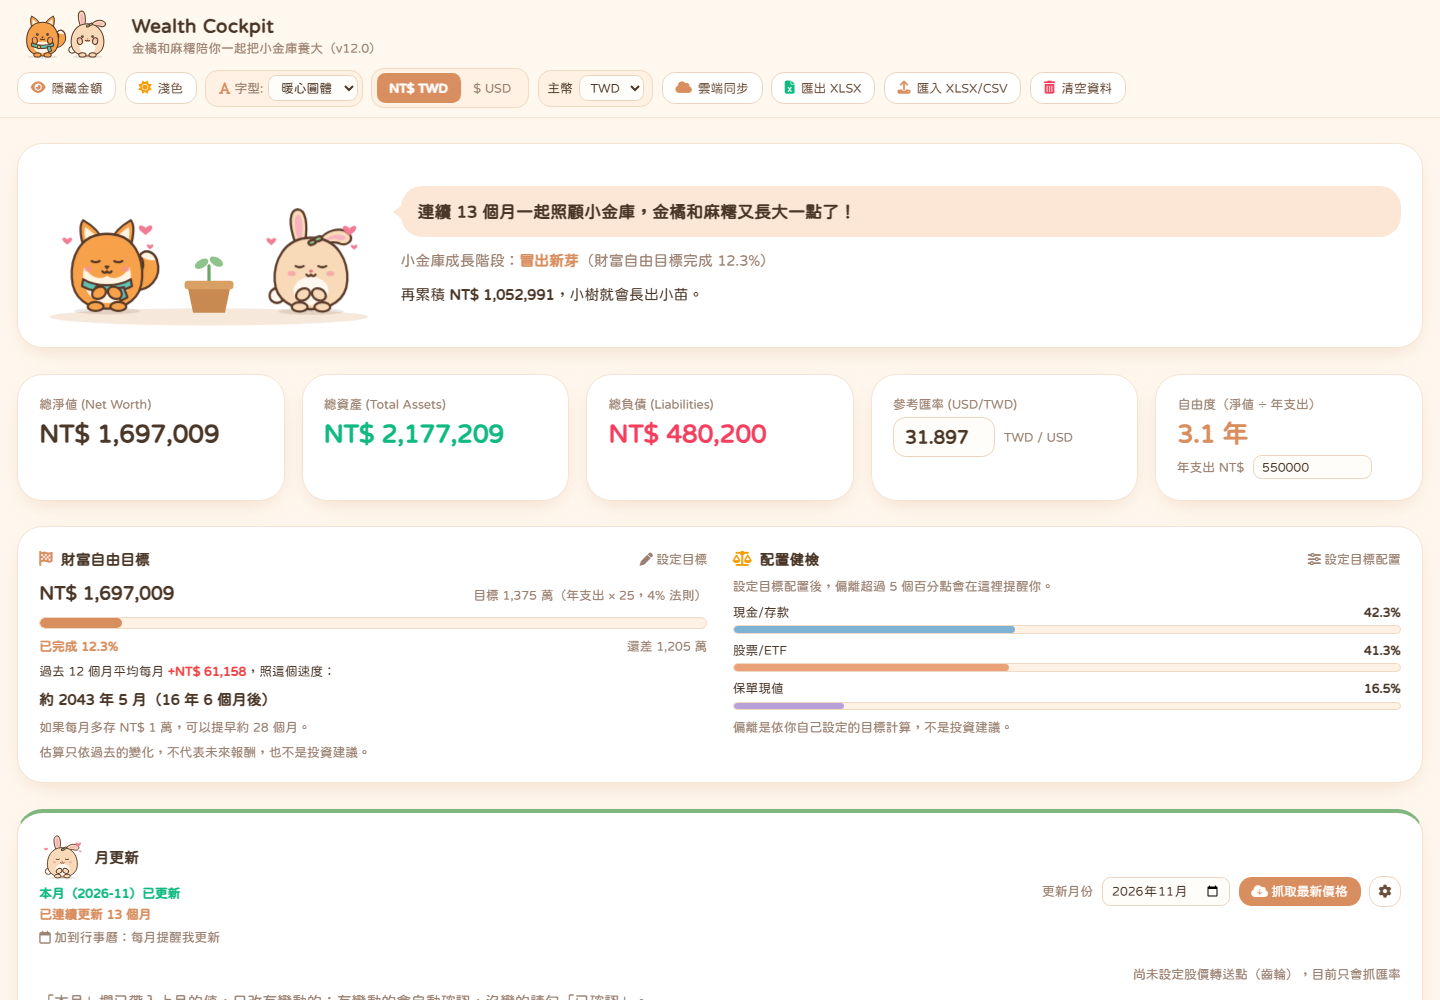
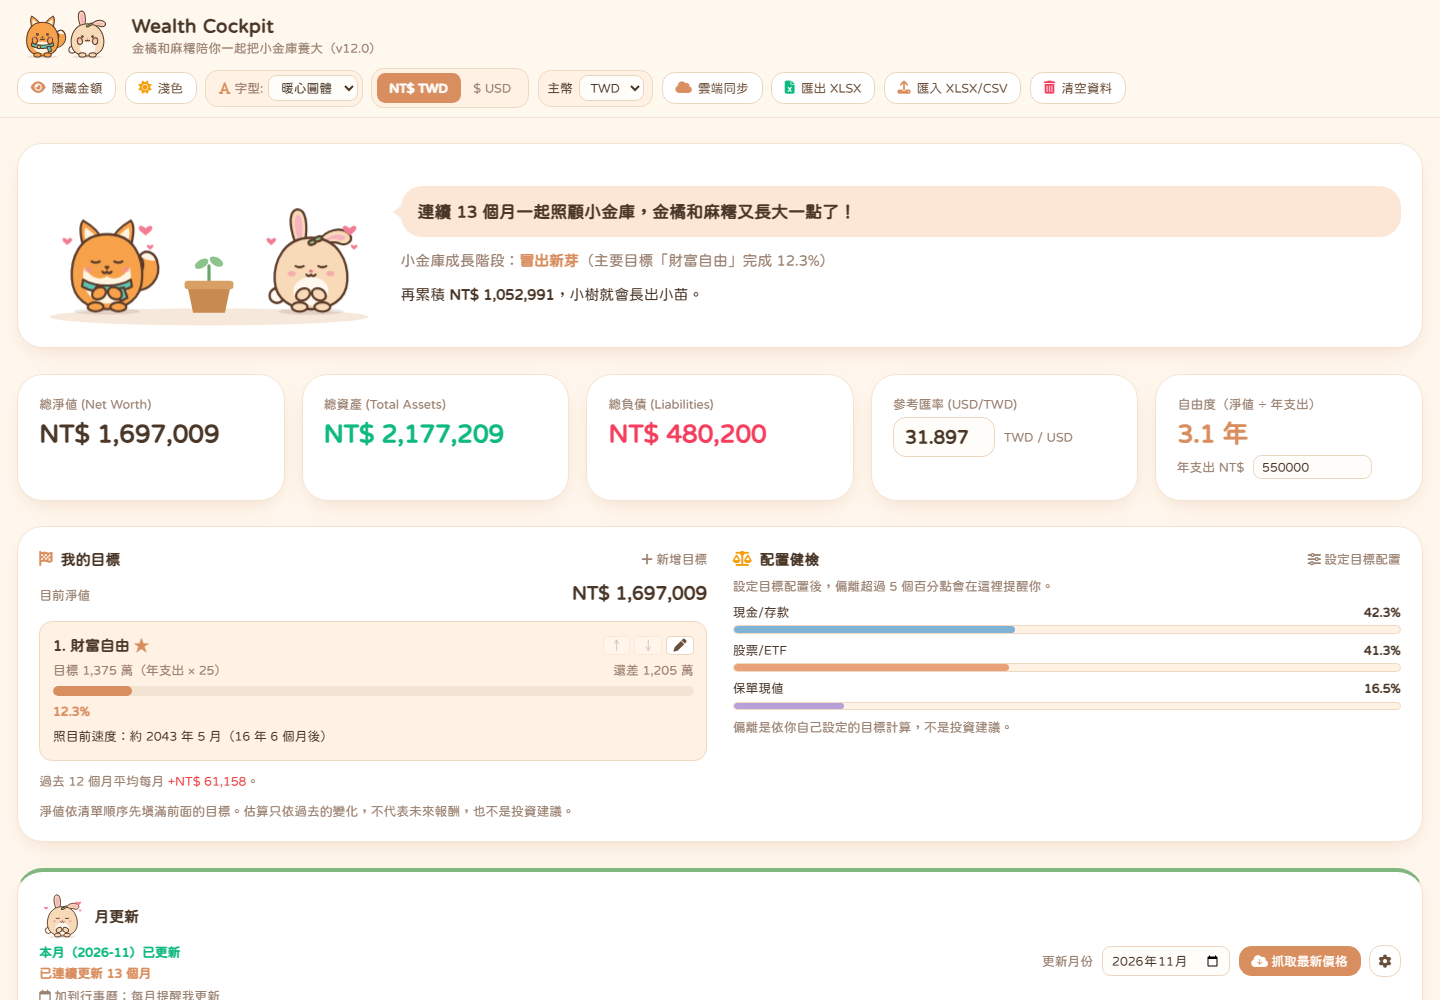
README：新增「我的目標」說明與截圖、匿名統計的隱私說明，更新受影響的截圖

diff --git a/README.md b/README.md
@@ -1,6 +1,6 @@
 # Wealth Cockpit · 金橘與麻糬的小金庫
 
-> 每月花 5 分鐘記下你的資產，看著小金庫的樹一點一點長大，往財富自由前進。
+> 每月花 5 分鐘記下你的資產，看著小金庫的樹一點一點長大，往你的目標前進。
 
 **立即使用 → https://timmy-practice.github.io/wealth-cockpit/**
 
@@ -14,9 +14,10 @@
 
 一個**手動記錄**的個人資產追蹤工具。你每個月把各帳戶、股票、保單、負債的金額填進去，它會幫你：
 
-- 算出**總淨值**、**財富自由度**（淨值 ÷ 年支出），以及照目前的速度，大約**哪一年能達到財富自由目標**
+- 算出**總淨值**與**財富自由度**（淨值 ÷ 年支出）
+- 追蹤你的**多個目標**（緊急預備金、買房頭期款、教育金、財富自由……），告訴你每個目標的進度、**每月要存多少**，以及照目前速度**哪一年能達成**
 - 用四張圖告訴你：**錢跑哪去了**、**錢放在哪裡**、**身價怎麼變化**、**資產結構怎麼演變**
-- 用一棵會長大的**小金庫樹**陪你：目標完成度越高，樹就從種子、新芽，長成結滿金幣、開花的大樹
+- 用一棵會長大的**小金庫樹**陪你：主要目標完成度越高，樹就從種子、新芽，長成結滿金幣、開花的大樹
 
 ### 為什麼要「手動」？
 
@@ -75,6 +76,21 @@
 - **加碼或賣出時**，到「編輯」更新股數與平均成本即可，市值下次抓價時會自動算對。
 
 > 股價來自公開的財經資料，可能有延遲或錯誤，請以券商畫面為準。
+
+---
+
+## 我的目標
+
+![我的目標：依順序填滿的多個目標](docs/images/goals.png)
+
+每個人存錢的理由不一樣，所以目標由你自己訂：
+
+- 按「**新增目標**」，填名稱、金額，以及希望達成的年月（選填）。財富自由這類目標可以勾選「用年支出 × 25 自動計算」（4% 法則）。
+- **依順序填滿**：淨值會先填滿排在前面的目標，多的再給下一個，**同一筆錢不會重複計算**。用 ↑ ↓ 調整先後順序，例如「緊急預備金 → 買房頭期款 → 財富自由」。
+- 有填年月的目標，會算出「**每月需存約 X 元**」；如果前面還有沒存滿的目標，會一起算進去。
+- 有兩個月以上的紀錄後，會依你實際的成長速度估算**大約哪一年哪個月達成**。
+- 標上 ★ 的是**主要目標**，小金庫的樹跟著它長大。
+- 買房、買車這種會把錢花掉的目標，存到之後按「**已達成**」，它會移到「已達成的目標」，不再分走你的淨值；緊急預備金這種要一直留著的，不用按。
 
 ---
 
@@ -150,7 +166,6 @@
 
 - **隱藏金額**：在公共場所打開時，一鍵把所有金額模糊化。
 - **主幣設定**：選擇 TWD 或 USD 作為主要幣別；上方的 NT$ / USD 切換可以臨時看另一種幣別。
-- **財富自由目標**：預設是「年支出 × 25」（4% 法則），也可以自訂；會顯示目前完成度與預估達成時間。
 - **配置健檢**：設定你理想的資產配置比例，偏離超過 5 個百分點時會提醒你。
 - **深色 / 淺色主題**與多種字型。
 
@@ -159,7 +174,8 @@
 ## 隱私與資料安全
 
 - 所有資料只存在**你的瀏覽器**（localStorage）；使用雲端同步時，存在**你自己的 Google 雲端硬碟**。
-- 網站沒有後端伺服器，**開發者收不到、也看不到任何人的資產資料**。
+- **開發者收不到、也看不到任何人的資產資料**。
+- **匿名使用統計**：按「儲存本月」時，會送出一個這台裝置的**隨機編號**給作者的統計服務，月份由伺服器決定，用來了解有多少人持續每月使用。**不包含任何金額、項目、名字或 email**。不想分享的話，在「月更新」區按「匿名統計：關閉」即可。
 - 抓取價格時，只會送出「美金對台幣」的匯率查詢與**股票代碼**（例如 `2330`、`VTI`），**不會送出任何股數、金額或個人資料**。
 - 清除瀏覽器資料會讓資料消失，請記得**定期匯出備份**或使用雲端同步。
 
